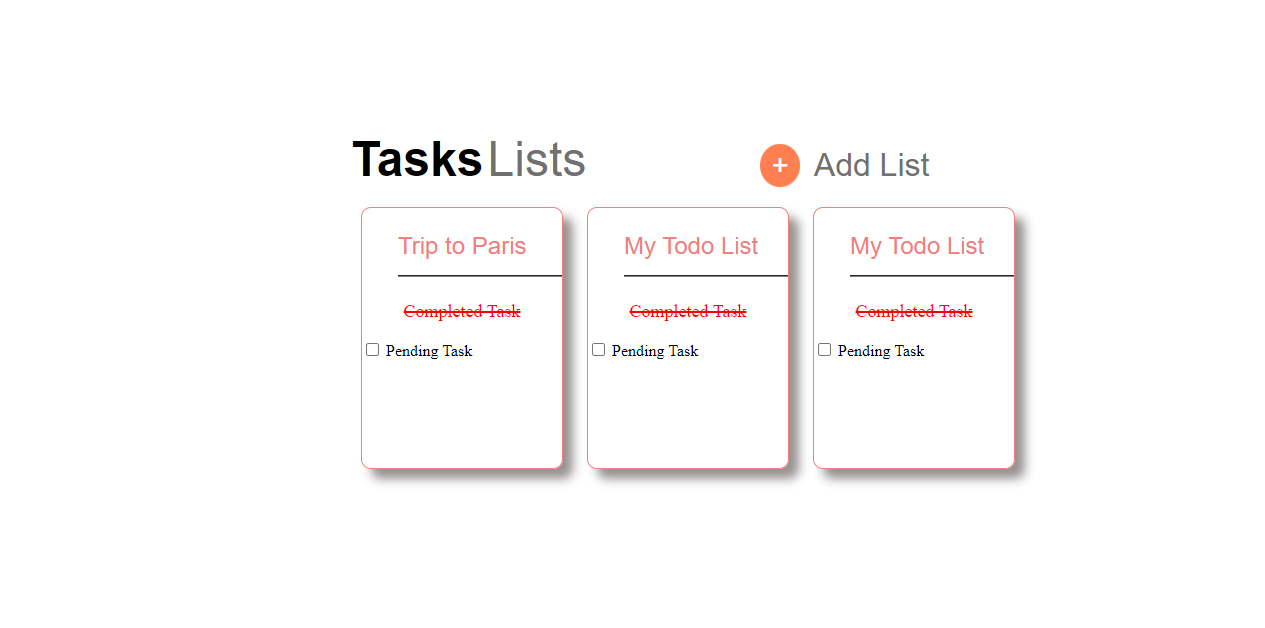
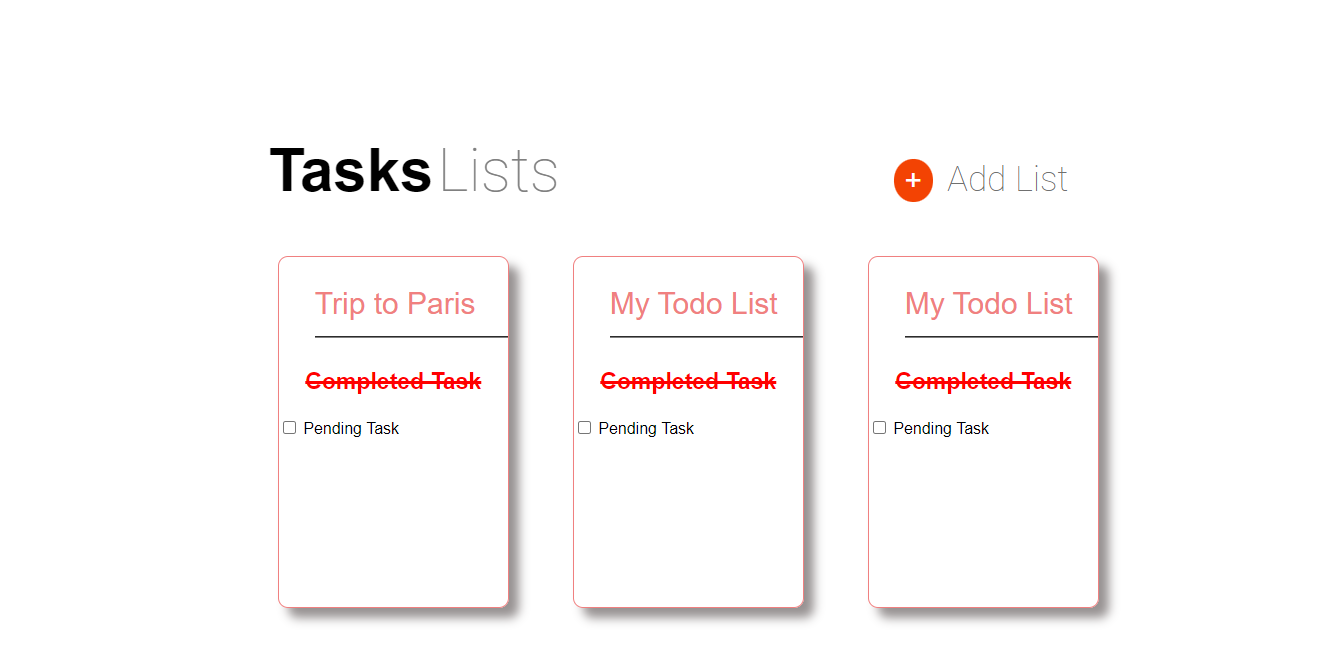
todoweb

diff --git a/index.css b/index.css
@@ -1,31 +1,33 @@
 .container1 {
     margin-top: 10%;
-    margin-left: 27%;
+    margin-left: 20%;
 }
 .pg1-head1 {
-    font-size: xxx-large;
+    font-size: 60px;
     font-weight: 600;
     font-family:Arial, Helvetica, sans-serif;
+    margin-left: 20px;
 }
 .pg1-head2 {
-    font-size: xxx-large;
-    font-family:Arial, Helvetica, sans-serif;
+    font-size:60px;
     font-weight:100;
-    color: #707070;
-    margin-right: 230px;
+    color:gray;
+    margin-right: 330px;
+    font-family:"Roboto";
 }
 .pg1-head3 {
-    font-size: xx-large;
-    font-family:Arial, Helvetica, sans-serif;
-    font-weight:10;
+    font-size: 35px;
+    font-family:"Roboto";
     color: #707070;
+    
+
 }
 .head {
     margin-bottom: 10px;
 }
 .pg1-btn {
     border-radius: 50%;
-    background: coral;
+    background: rgb(243, 67, 3);
     height: 50px;
     width: 50px;
     text-decoration: none;
@@ -40,25 +42,24 @@
     text-decoration: none;
 
 }
-.pg1-boxes {
+.pg1-cards {
     display: inline-block;
     margin-top: 10px;
-
-    
 }
-.box {
+.card {
     display:inline-block;
     border: 1px lightcoral solid;
-    height: 260px;
-    width: 200px; 
+    height: 350px;
+    width: 229px; 
     border-radius: 10px;
-    margin: 10px;
+    margin: 30px;
     box-shadow: 10px 10px 10px 0 rgba(148, 143, 143, 0.979) ;
+    font-family: sans-serif;
     
 }
 .boxhead {
     color: lightcoral;
-    font-size: x-large;
+    font-size: 30px;
     font-family: Arial, Helvetica, sans-serif;
     border-bottom: 2px gray groove;
     padding-bottom: 15px;
@@ -67,30 +68,33 @@
 .boxtask {
     text-decoration: line-through;
     color:red;
-    font-weight: 500;
+    font-weight: 700;
     text-align: center;
-    font-size: large;
-    text-decoration-thickness: 2px;
+    font-size: 23px;
+    text-decoration-thickness: 3px;
+}
+.pg1-checkbox {
+    font-size: 20px;
 }
 
 
 /* INDEX 2 CSS PART */
 
 .container2 {
-    margin-left: 37%;
-    margin-top: -6%;
+    margin-left: 34%;
+    margin-top: -3%;
 
 }
 
 .pg2-heading {
     
-    font-size: xxx-large;
-    font-family: Arial, Helvetica, sans-serif;
-    font-weight: 900;
+    font-size: 65px;
+    font-family:sans-serif;
+    font-weight: 750;
     position: relative;
     text-align: center;
     margin: 100px auto;
-    max-width: 650px;
+    max-width: 700px;
 }
 .pg2-heading:before {
     content: "";
@@ -117,12 +121,12 @@
 .pg2-link {
     font-size: x-large;
     font-family: Arial, Helvetica, sans-serif;
-    margin: 44px 0px 39px 136px;
+    margin: 44px 0px 70px 136px;
     
 }
 .pg2-icon {
-    color: coral;
-    margin-right: 3px;
+    color: rgb(245, 65, 0);
+    margin-right: 9px;
     font-size: 36px;
 }
 .pg2-icontext {
@@ -130,18 +134,18 @@
     font-size: 36px;
 
 }
-.pg2-box {
+.pg2-card{
 
     border: 1px lightcoral solid;
-    height: 350px;
-    width: 350px; 
+    height: 400px;
+    width: 400px; 
     border-radius: 10px;
     margin: 10px;
     box-shadow: 10px 10px 10px 0px rgba(148, 143, 143, 0.979) ;
 }
 .pg2-boxhead {
     color: lightcoral;
-    font-size: x-large;
+    font-size: 35px;
     font-family: Arial, Helvetica, sans-serif;
     border-bottom: 2px gray groove;
     padding-bottom: 17px;
@@ -150,19 +154,20 @@
 .pg2-boxtask {
     text-decoration: line-through;
     color:red;
-    text-decoration-thickness: 2px;
-    font-weight: 500;
+    text-decoration-thickness: 3px;
+    font-weight: 700;
     text-align: center;
-    font-size: 20px;
+    font-size: 25px;
+    font-family: Arial, Helvetica, sans-serif;
 }
 
 .checkbox {
      margin-left: 90px;
-     font-size: 20px;
+     font-size: 21px;
 }
 
 .pg2-button {
-    margin-top: 39%;
+    margin-top: 35%;
     margin-left: 82%;
 }
 
@@ -175,35 +180,37 @@ body,html {
     margin: 0;
     padding: 0;
 }
-.main {
+.pg34-card {
     border: 1px lightcoral solid;
-    height: 161px;
-    width: 300px; 
+    height: 220px;
+    width: 420px; 
     border-radius: 10px;
     text-align: center;
     box-shadow: 10px 10px 10px 0px rgba(148, 143, 143, 0.979) ;
-    color: coral; 
-    margin-left: 40%; 
+    color: rgb(233, 64, 3); 
+    margin-left: 38%; 
     margin-top: 18%;
     background:#ffffff;
     font-family: Arial, Helvetica, sans-serif;
-    font-size: large;
+    font-size: 25px;
     position: absolute;
+    
  } 
 .textbox {
-    color: coral;
-    height: 25px;
-    width: 210px;
+    height: 33px;
+    width: 300px;
 
 }
 .btn {
     background: coral;
-    border-radius: 15px;
+    border-radius: 22px;
     border: 0px;
     color:#ffffff;
-    height: 30px;
-    width: 64px;
+    height: 40px;
+    width: 80px;
+    font-size: 22px;
 }
+
 .blur1 {
     background-image: url(./image1.png);
     backdrop-filter: blur(8px);

diff --git a/index.html b/index.html
@@ -6,6 +6,10 @@
     <meta name="viewport" content="width=device-width, initial-scale=1.0">
     <title>To Do App UI Webpage</title>
     <link rel="stylesheet" href="./index.css">
+    <!-- Google fonts -->
+    <link rel="preconnect" href="https://fonts.googleapis.com">
+    <link rel="preconnect" href="https://fonts.gstatic.com" crossorigin>
+    <link href="https://fonts.googleapis.com/css2?family=Roboto:wght@100&display=swap" rel="stylesheet">
  
 </head>
 <body>
@@ -16,27 +20,33 @@
         <span ><a href="./index3.html" class="pg1-btn">+</a></span>
         <span class=" pg1-head3">Add List</span>
     </div>
-    <div class="pg1-boxes">
+    <div class="pg1-cards">
         
-          <div class="box box1">
+          <div class="card card1">
             <a href="./index2.html" class="pg1-link">
             <p class="boxhead">Trip to Paris</p> </a> 
             <p class="boxtask">Completed Task</p>
-            <input type="checkbox" name="task" id="task1" value="">
-            <label for="task1">Pending Task</label>
+            <div class="pg1-checkbox">
+                <input type="checkbox" name="task" id="task1" value="">
+                <label for="task1">Pending Task</label>
+            </div>
           </div>
        
-        <div class="box box2">
+        <div class="card card2">
             <p class="boxhead">My Todo List</p> 
             <p class="boxtask">Completed Task</p>
-            <input type="checkbox" name="task" id="task2" value="">
-            <label for="task2">Pending Task</label>
+            <div class="pg1-checkbox">
+                <input type="checkbox" name="task" id="task2" value="">
+                <label for="task2">Pending Task</label>
+           </div>
         </div>
-        <div class="box box3">
+        <div class="card card3">
             <p class="boxhead">My Todo List</p> 
             <p class="boxtask">Completed Task</p>
-            <input type="checkbox" name="task" id="task3" value="">
-            <label for="task3">Pending Task</label>
+            <div class="pg1-checkbox">
+               <input type="checkbox" name="task" id="task3" value="">
+               <label for="task3">Pending Task</label>
+            </div>
         </div>
     </div>
   </div>

diff --git a/index2.html b/index2.html
@@ -18,7 +18,7 @@
        <a href="./index.html" class="pg2-icon"><i class="fas fa-arrow-circle-left"></i></a>
        <span class="pg2-icontext">Back</span>
     </div>
-    <div class="pg2-box">
+    <div class="pg2-card">
         <p class="pg2-boxhead">Trip to Paris</p> 
         <p class="pg2-boxtask">Completed Task</p>
          <div class="checkbox">

diff --git a/Index4.html b/Index4.html
@@ -8,8 +8,8 @@
     <link rel="stylesheet" href="./index.css">
 </head>
 <body class="blur2">
-    <div class="main">
-        <p >Add New Item</p>
+    <div class="pg34-card">
+        <p>Add New Item</p>
         <input type="text" class="textbox"><br><br>
         <a href="./index.html">
             <input type="submit" value="ADD" class="btn">

diff --git a/index3.html b/index3.html
@@ -8,7 +8,7 @@
     <link rel="stylesheet" href="./index.css">
 </head>
 <body class="blur1">
-    <div class="main">
+    <div class="pg34-card">
          <p>Add New List</p>
         <input type="text" class="textbox"><br><br>
         <a href="./index.html">
